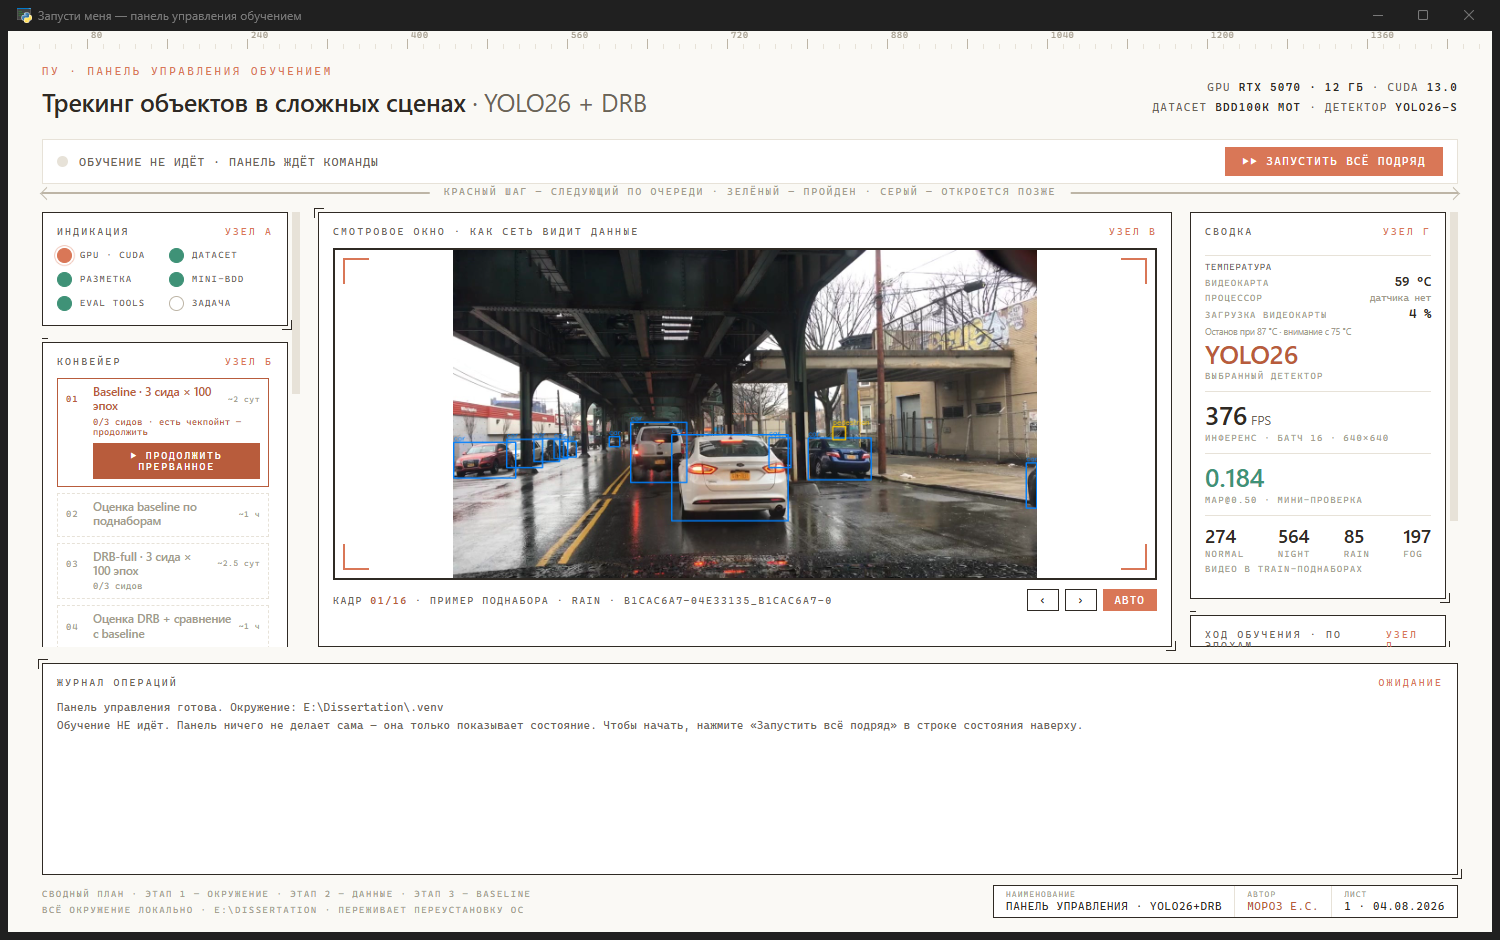
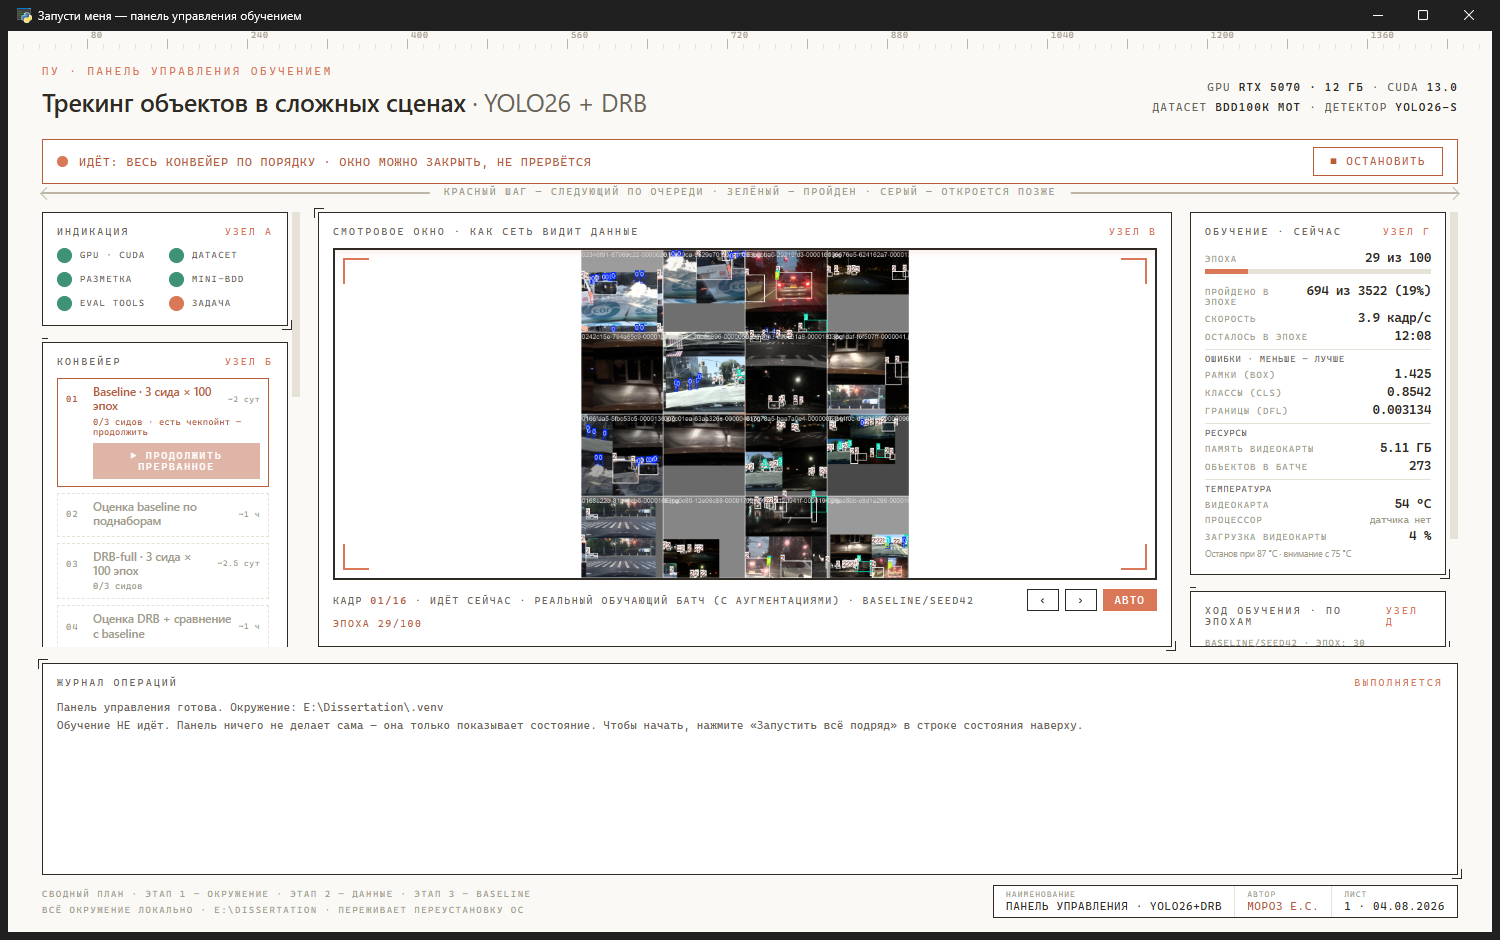
fix: панель переживает перезапуск, в узле Д есть и ошибка
Отзыв: «закрыл крестиком, открыл по F5 — снова зависла» и «в узле Д
есть точность, а ошибки нет».

- После закрытия окна могли оставаться процессы WebView2, держащие наш
  профиль; следующий запуск вставал на заблокированном профиле. Теперь
  панель, взяв мьютекс (то есть убедившись, что других панелей нет),
  гасит такие хвосты — строго по своему пути .cache/webview2, чужие
  браузеры не трогает.
- Перезапуск из .venv помечается флагом --in-venv: раньше решение
  принималось сравнением путей интерпретатора, что в некоторых средах
  давало лишний круг.
- Узел Д: под графиком теперь и точность, и ошибка — текущая и исходная.

Разобрана давняя странность «два процесса python»: это НЕ ошибка, а
устройство venv в Windows. Файл .venv\Scripts\python.exe — запускающая
обёртка (268 КБ против 103 КБ у настоящего интерпретатора), она всегда
порождает базовый python. Проверено на голой команде без нашего кода.

diff --git a/ui/launcher.html b/ui/launcher.html
@@ -145,7 +145,7 @@ main{flex:1; display:grid; grid-template-columns:258px 1fr 268px; gap:18px; min-
 .tk{font-family:var(--mono); font-size:9px; letter-spacing:.13em; text-transform:uppercase; color:var(--cap);}
 .tv{font-family:var(--mono); font-size:12.5px; color:var(--ink); font-weight:600; white-space:nowrap;}
 .tsep{font-family:var(--mono); font-size:8.5px; letter-spacing:.13em; text-transform:uppercase;
-  color:var(--sec); border-top:1px solid var(--div); margin-top:7px; padding-top:6px;}
+  color:var(--sec); border-top:1px solid var(--div); margin-top:5px; padding-top:4px;}
 #tbar{height:5px; background:var(--div); margin:3px 0 7px;}
 #tbarfill{height:100%; width:0%; background:var(--accent); transition:width .4s;}
 #thermnote{font-size:8.5px; color:var(--cap); margin-top:4px; line-height:1.4;}
@@ -233,12 +233,12 @@ main{flex:1; display:grid; grid-template-columns:258px 1fr 268px; gap:18px; min-
 #curvewrap{display:flex; flex-direction:column; gap:6px;}
 #curvecap{font-family:var(--mono); font-size:9px; letter-spacing:.1em;
   text-transform:uppercase; color:var(--cap);}
-#curve{width:100%; height:84px; border:1px solid var(--div); background:var(--paper);}
+#curve{width:100%; height:68px; border:1px solid var(--div); background:var(--paper);}
 #curve .gridline{stroke:var(--div); stroke-width:.5;}
 #curve .lmap{fill:none; stroke:var(--accent); stroke-width:2; vector-effect:non-scaling-stroke;}
 #curve .lloss{fill:none; stroke:var(--sec); stroke-width:1.4;
   stroke-dasharray:3 2; vector-effect:non-scaling-stroke;}
-#curvelegend{display:flex; flex-direction:column; gap:3px; font-size:9px; color:var(--cap);}
+#curvelegend{display:flex; flex-direction:column; gap:2px; font-size:8.5px; color:var(--cap);}
 #curvelegend i{display:inline-block; width:11px; height:2px; margin-right:5px;
   vertical-align:middle;}
 #curvelegend i.accent{background:var(--accent);}
@@ -564,9 +564,11 @@ const ui = {
       '<line class="gridline" x1="0" y1="' + (H / 2) + '" x2="' + W + '" y2="' + (H / 2) + '"/>'
       + line(d.loss, 'lloss') + line(d.map50, 'lmap');
     const lastMap = d.map50[n - 1], bestMap = Math.max(...d.map50);
-    $('curvecap').textContent =
-      d.run + ' · эпох: ' + n + ' · mAP сейчас ' + lastMap.toFixed(3)
-      + ' · лучший ' + bestMap.toFixed(3);
+    const firstLoss = d.loss[0], lastLoss = d.loss[n - 1];
+    $('curvecap').innerHTML =
+      d.run + ' · эпох: ' + n + '<br>'
+      + 'точность ' + lastMap.toFixed(3) + ' (лучшая ' + bestMap.toFixed(3) + ')<br>'
+      + 'ошибка ' + lastLoss.toFixed(3) + ' (была ' + firstLoss.toFixed(3) + ')';
   },
   refreshCurve() {
     if (window.pywebview && pywebview.api && pywebview.api.training_curve)

diff --git a/Запусти меня.py b/Запусти меня.py
@@ -36,6 +36,9 @@ FULL_LOG = PROJECT_ROOT / 'runs' / 'full_pipeline.log'
 FULL_PID = PROJECT_ROOT / 'runs' / 'full_pipeline.pid'
 
 
+REEXEC_FLAG = '--in-venv'      # признак «этот процесс уже перезапущен»
+
+
 def reexec_into_venv() -> None:
     """Перезапуск из .venv проекта, если запущены системным интерпретатором.
 
@@ -43,7 +46,16 @@ def reexec_into_venv() -> None:
     запустили (VS Code, IDE, терминал), убивает всю группу процессов сразу
     после выхода родителя — окно панели успевало только мигнуть.
     Под --selftest отсоединять нельзя: вызывающему нужен код возврата.
+
+    Перезапуск строго однократный — по метке в аргументах, а не по сравнению
+    путей интерпретатора. Сравнение путей подводило: в некоторых средах
+    (запуск по F5 из VS Code) процесс из .venv считал себя «чужим» и
+    запускал ещё один, тот — третий, и два окна дрались за один профиль
+    WebView2. Итог выглядел как намертво зависшая программа.
     """
+    if REEXEC_FLAG in sys.argv:
+        sys.argv.remove(REEXEC_FLAG)
+        return
     try:
         same = Path(sys.executable).resolve() == VENV_PY.resolve()
     except OSError:
@@ -52,7 +64,8 @@ def reexec_into_venv() -> None:
         flags = 0 if '--selftest' in sys.argv else (
             subprocess.DETACHED_PROCESS | subprocess.CREATE_NEW_PROCESS_GROUP)
         proc = subprocess.Popen(
-            [str(VENV_PY), str(Path(__file__).resolve()), *sys.argv[1:]],
+            [str(VENV_PY), str(Path(__file__).resolve()), REEXEC_FLAG,
+             *sys.argv[1:]],
             cwd=str(PROJECT_ROOT), creationflags=flags)
         if flags == 0:
             sys.exit(proc.wait())
@@ -703,6 +716,31 @@ def _capture_window_by_title(title: str, out_path: Path) -> None:
     user32.ReleaseDC(hwnd, hdc)
 
 
+def _kill_orphan_webviews() -> None:
+    """Гасит процессы WebView2, оставшиеся от прошлого запуска панели.
+
+    Ищем строго по нашему профилю (.cache/webview2) — чужие браузеры и
+    другие приложения на WebView2 не трогаем.
+    """
+    storage = str(PROJECT_ROOT / '.cache' / 'webview2')
+    try:
+        out = subprocess.run(
+            ['powershell', '-NoProfile', '-Command',
+             "Get-CimInstance Win32_Process -Filter \"Name='msedgewebview2.exe'\" "
+             f"| Where-Object {{ $_.CommandLine -like '*{storage}*' }} "
+             "| Select-Object -ExpandProperty ProcessId"],
+            capture_output=True, text=True, timeout=20,
+            creationflags=getattr(subprocess, 'CREATE_NO_WINDOW', 0)).stdout
+    except (OSError, subprocess.SubprocessError):
+        return
+    pids = [p for p in out.split() if p.isdigit()]
+    for pid in pids:
+        subprocess.run(['taskkill', '/PID', pid, '/T', '/F'], capture_output=True,
+                       creationflags=getattr(subprocess, 'CREATE_NO_WINDOW', 0))
+    if pids:
+        print(f'Убраны остатки прошлого запуска: {len(pids)} процесс(ов) WebView2.')
+
+
 def main() -> None:
     # Единственный экземпляр: два окна на одном WebView2-профиле дают
     # чёрный рендер второго. Повторный запуск НЕ показывает диалог: модальное
@@ -718,6 +756,11 @@ def main() -> None:
         else:
             print('Панель уже запущена (окно ещё открывается).')
         sys.exit(0)
+
+    # Мьютекс взят — значит, других панелей нет, и любой процесс WebView2,
+    # держащий НАШ профиль, остался от прошлого запуска. Такие «хвосты»
+    # блокируют профиль, и новое окно повисает при старте.
+    _kill_orphan_webviews()
 
     try:  # чёткий рендер на HiDPI
         ctypes.windll.shcore.SetProcessDpiAwareness(2)
